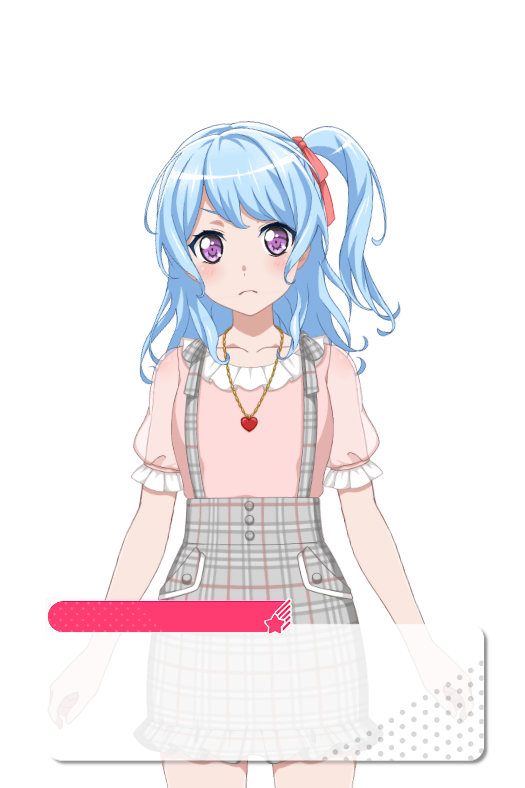
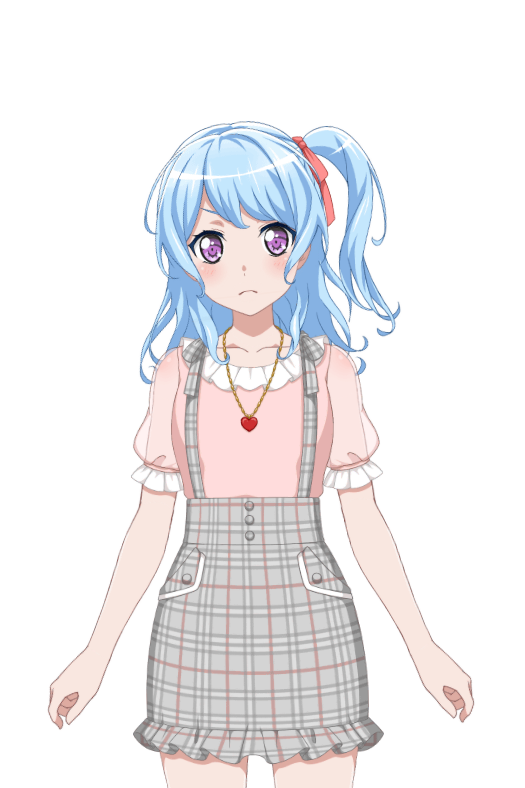
本文入力部分も canvas で描画するようにした

Changed region(s): [[0.0914, 0.7614, 0.9448, 0.9746]]

diff --git a/store/canvas.js b/store/canvas.js
@@ -5,20 +5,31 @@ export const state = () => ({
     size: 25,
     lineHeightOffset: 4,
   },
-  // TODO: 一旦固定にしてる
-  imgsrc: 'image/chisato_shirasagi.png',
+  // imgsrc: 'image/chisato_shirasagi.png',
+  // imgsrc: 'image/kanon.png',
   // imgsrc: 'image/kanon_matsubara.png',
   // 実際に表示する画像サイズ（Canvas サイズもこれを使用する）
-  size: {
+  character: {
+    // TODO: 一旦固定にしてる
+    src: 'image/kanon_matsubara.png',
+    x: 0,
+    y: 0,
     width: 525,
     height: 788,
+  },
+  inputArea: {
+    src: 'image/input_area.png',
+    x: 0,
+    y: 600,
+    width: 525,
+    height: 192,
   },
   context: null,
   name: {
     text: '',
     color: '#FFFFFFFF',
     x: 65,
-    y: 616.1,
+    y: 620,
     font: {
       family: 'Meiryo',
       size: 25,
@@ -87,21 +98,35 @@ export const actions = {
   /**
    * 画像の描画
    */
-  drawImage ({ state, dispatch }) {
+  async drawImage ({ state, dispatch }) {
     if (state.context == null) {
       return
     }
 
     // Canvas の描画をクリア
-    state.context.clearRect(0, 0, state.size.width, state.size.height)
+    state.context.clearRect(0, 0, state.character.width, state.character.height)
 
-    const img = new Image()
-    img.src = state.imgsrc
-    img.onload = () => {
-      state.context.drawImage(img, 0, 0, state.size.width, state.size.height)
-      dispatch('drawName')
-      dispatch('drawBody')
+    // 画像の読み込み完了までを非同期で行うようにする関数定義
+    const loadImage = function (src) {
+      return new Promise((resolve, reject) => {
+        const img = new Image()
+        img.onload = () => resolve(img)
+        img.onerror = (e) => reject(e)
+        img.src = src
+      })
     }
+
+    // キャラクターの画像描画
+    const characterImage = await loadImage(state.character.src)
+    state.context.drawImage(characterImage, state.character.x, state.character.y, state.character.width, state.character.height)
+
+    // 入力エリアの画像描画
+    const inputAreaImage = await loadImage(state.inputArea.src)
+    state.context.drawImage(inputAreaImage, state.inputArea.x, state.inputArea.y, state.inputArea.width, state.inputArea.height)
+
+    // テキスト描画
+    dispatch('drawName')
+    dispatch('drawBody')
   },
 
   /**

diff --git a/components/generator/Canvas.vue b/components/generator/Canvas.vue
@@ -1,5 +1,5 @@
 <template lang="pug">
-canvas#canvas(ref='canvas' :width='size.width' :height='size.height')
+canvas#canvas(ref='canvas' :width='character.width' :height='character.height')
 </template>
 
 <script>
@@ -8,7 +8,7 @@ import { mapState, mapActions } from 'vuex'
 export default {
   computed: {
     ...mapState('canvas', [
-      'size',
+      'character',
     ]),
   },
 
